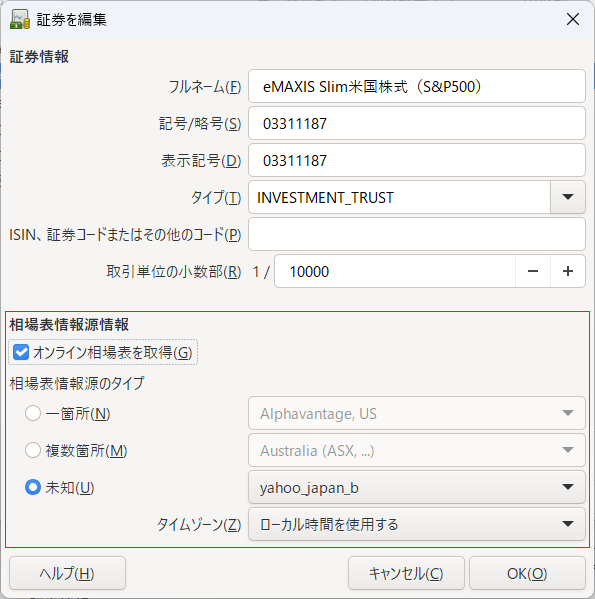
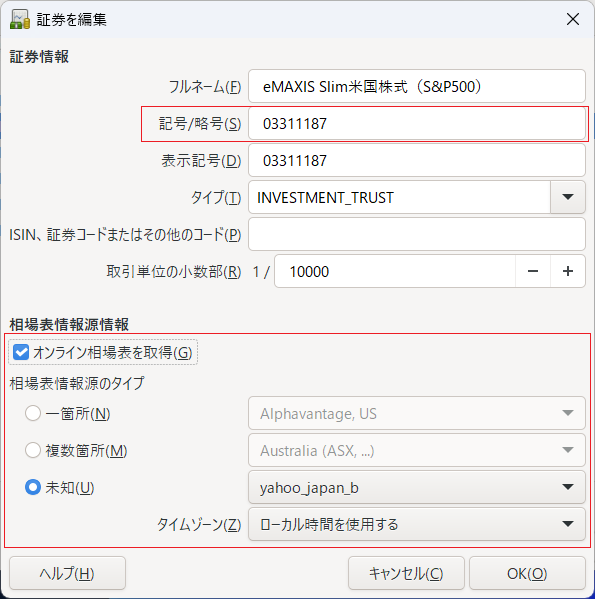
update README.md

diff --git a/README.md b/README.md
@@ -41,14 +41,15 @@
   - Finance::QuoteのQuote.pmを更新して`@MODULES`配列に`YahooJapanB`を追加
   - テストを実施してインストールが正常に行われていることを確認
 - インストール手順
-  - `script/install.sh`を実行する。（スクリプトの内容が適切か見直した上で実行することを推奨）
+  - `script/install.sh`を実行する。（上記のインストール概要にある処理を実行します。実行前にスクリプトの内容と環境の整合性が取れていることを確認してください）
   ```
   $ ./script/install.sh
   ```
 
 ## GnuCashの設定方法
-YahooJapanBモジュールをGnuCashで使用するには証券エディターで対象の投資信託のオンライン取得設定を設定します。  
-YahooJapanB Quoteletを使用して評価額を取得するには「オンライン相場表を取得」のチェックを有効にして「未知」を選択し、「yahoo_japan_b」を設定します。
+YahooJapanB QuoteletをGnuCashで使用するには証券エディターで対象の投資信託のオンライン取得情報を設定します。  
+- 「記号／略号」にYahoo! JAPANファイナンスのコード（対象商品のページの左上に出る数値）を設定
+- 「オンライン相場表を取得」のチェックを有効にして「未知」を選択し、「yahoo_japan_b」を設定
 <img src="images/security_editor.png" alt="Security Editor" title="Secutiry Editor">
 
 評価額を取得するには価格データベースで「相場表を取得」をクリックします。  
